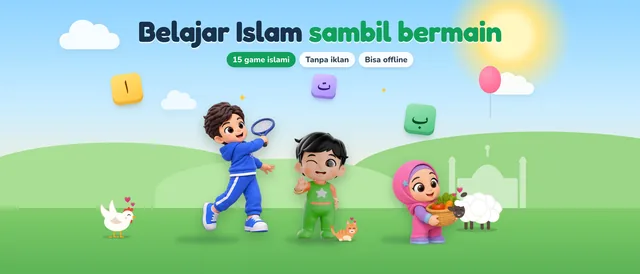
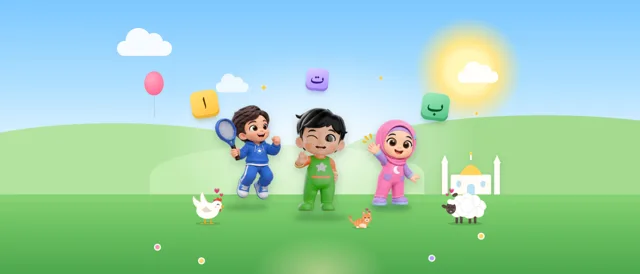
App Store Kit: new header + search art — no text, characters in the centre band so the App Store crop never cuts them (#204)
Claude-Session: https://claude.ai/code/session_013wiJDRdH28m1FqwwMnvbtM

diff --git a/app/app-store-kit/page.tsx b/app/app-store-kit/page.tsx
@@ -272,7 +272,7 @@ export default function AppStoreKit() {
           ))}
 
           <h2 id="creative">Header &amp; Search Results</h2>
-          <p className="lead">The product page header and the search-results artwork (App Store Connect → Product Page Information → <b>Header and Search Results</b>). No transparency, as Apple requires. The headline and characters sit in the middle so nothing important is hidden when Apple crops the image or places the app icon and Get button on top. Upload the <b>ID</b> files to the Indonesian localization and the <b>EN</b> files to English (U.S.).</p>
+          <p className="lead">The product page header and the search-results artwork (App Store Connect → Product Page Information → <b>Header and Search Results</b>). No transparency, as Apple requires. <b>✨ New design:</b> the App Store shows the header zoomed and cropped, with the status bar and the back/share buttons on top and the app card over the bottom, so a headline at the top got cut off. The new art has <b>no text</b> (your app name and subtitle already sit right below it); Baby Mo, Kak Adam and Ais stand together in the centre band, with sky at the top and grass at the bottom, so nothing important is ever hidden. The ID and EN files are the same picture; upload them to both localizations. Upload the <b>ID</b> files to the Indonesian localization and the <b>EN</b> files to English (U.S.).</p>
           <section className="group" id="creative-assets">
             <div className="ghead">
               <div><h3>Header &amp; search artwork · ID + EN</h3><p>6 images · Baby Mo, Kak Adam and Ais with the farm friends and hijaiyah blocks</p></div>
